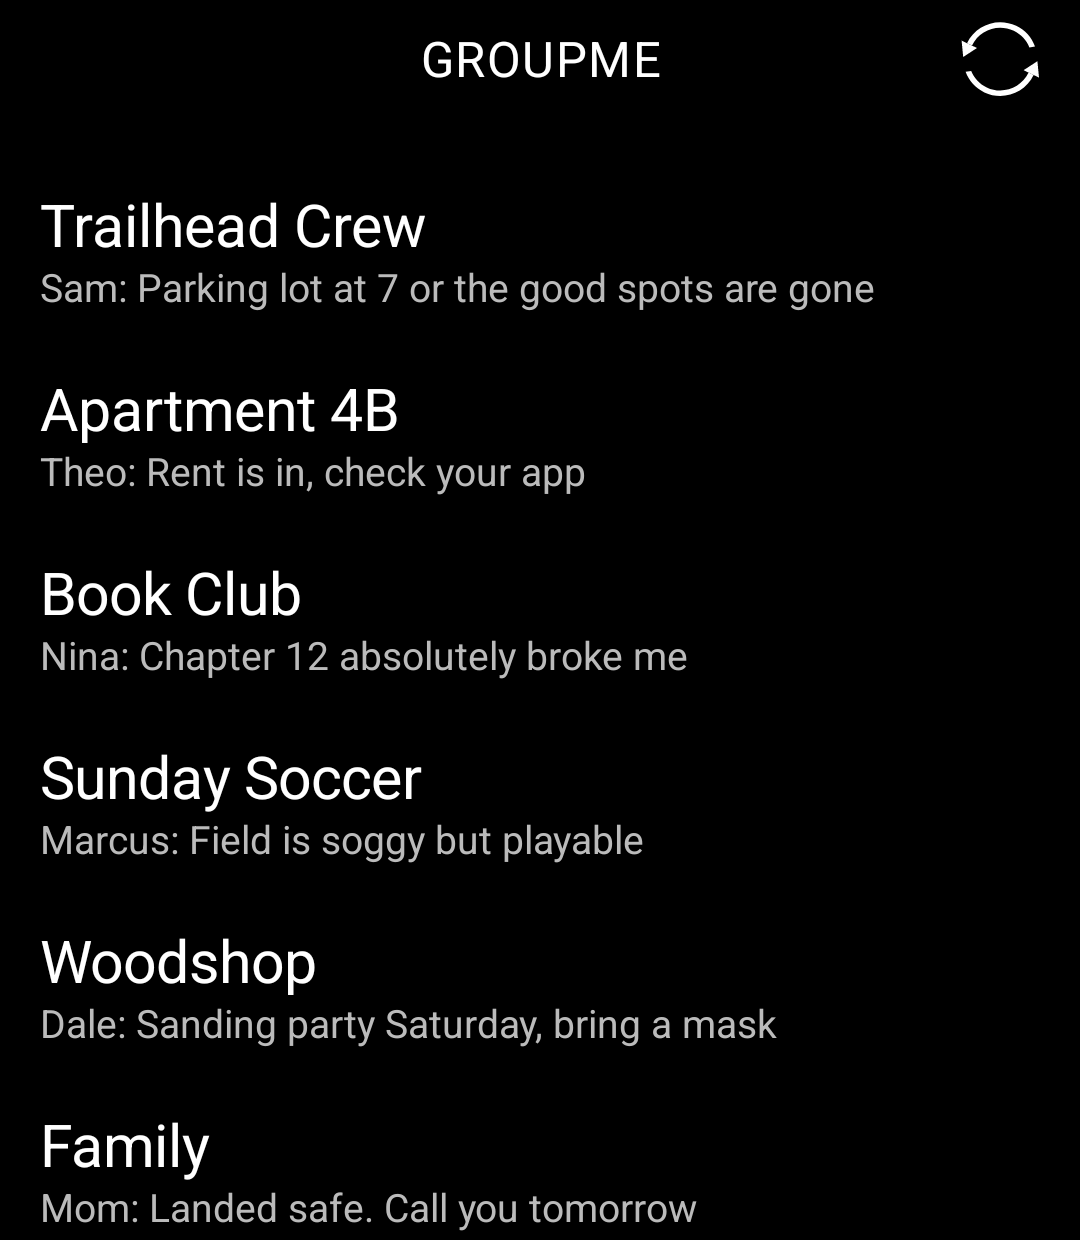
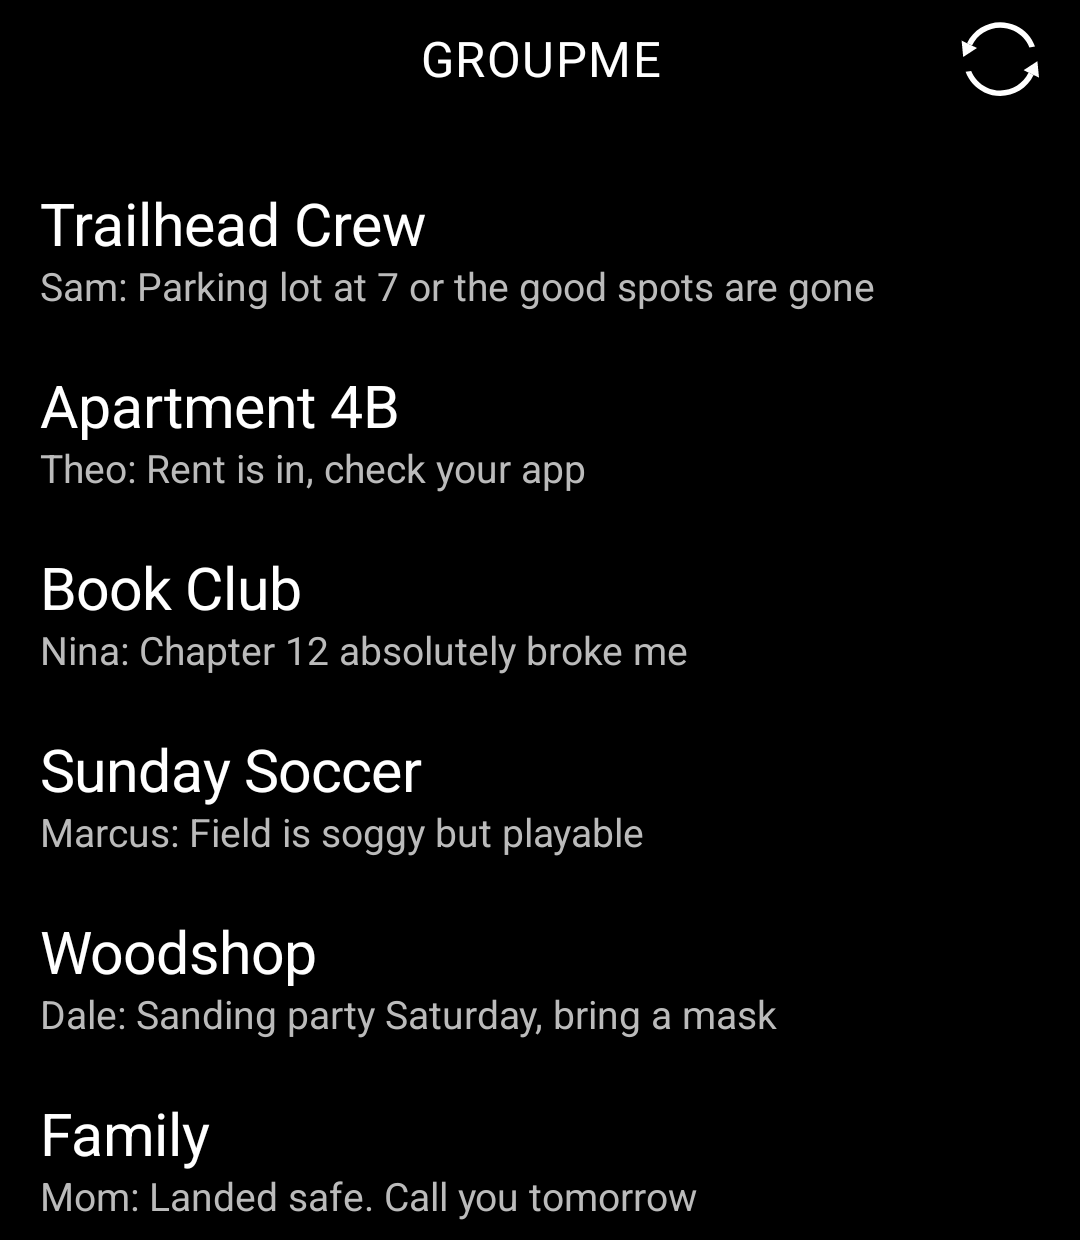
Match the LightOS messaging layout in the composer
The SDK generic text editor puts SUBMIT at the bottom and the draft at the
top, which does not match how the Light Phone messaging screen looks. This
adds a composer owned by the tool instead:

- Send moved to a paper-plane button in the top bar
- Draft text now rests just above the keys rather than at the top
- Close control sits beneath the keyboard
- Uses the SDK embedded Light Phone keyboard, so the keys stay native

Screenshots retaken at density 408 to match real LP3 hardware. Content in
them remains fabricated. README documents the two build targets and the
signing constraint that requires All Tools on real hardware.

Bumps to 1.1.0.

diff --git a/tool/src/main/kotlin/com/outofthewhale/groupme/ComposerScreen.kt b/tool/src/main/kotlin/com/outofthewhale/groupme/ComposerScreen.kt
@@ -1,0 +1,226 @@
+package com.outofthewhale.groupme
+
+import androidx.compose.foundation.background
+import androidx.compose.foundation.layout.Arrangement
+import androidx.compose.foundation.layout.Box
+import androidx.compose.foundation.layout.Column
+import androidx.compose.foundation.layout.Row
+import androidx.compose.foundation.layout.fillMaxSize
+import androidx.compose.foundation.layout.fillMaxWidth
+import androidx.compose.foundation.layout.padding
+import androidx.compose.foundation.text.input.TextFieldState
+import androidx.compose.foundation.text.input.delete
+import androidx.compose.foundation.text.input.rememberTextFieldState
+import androidx.compose.runtime.Composable
+import androidx.compose.runtime.collectAsState
+import androidx.compose.runtime.getValue
+import androidx.compose.runtime.remember
+import androidx.compose.ui.Alignment
+import androidx.compose.ui.Modifier
+import androidx.compose.ui.text.TextRange
+import androidx.lifecycle.ViewModel
+import androidx.lifecycle.ViewModelProvider
+import androidx.lifecycle.viewmodel.compose.viewModel
+import com.thelightphone.lp3Keyboard.ui.KeyboardOptions
+import com.thelightphone.lp3Keyboard.ui.LayoutOptions
+import com.thelightphone.lp3Keyboard.ui.SpecialKey
+import com.thelightphone.lp3Keyboard.ui.viewmodel.EnQwertyLp3KeyboardViewModel
+import com.thelightphone.lp3Keyboard.ui.viewmodel.Lp3KeyboardViewModel
+import com.thelightphone.lp3Keyboard.ui.viewmodel.Lp3RepeatableKeyboardCallback
+import com.thelightphone.sdk.SealedLightActivity
+import com.thelightphone.sdk.SimpleLightScreen
+import com.thelightphone.sdk.rememberKeyboardOptions
+import com.thelightphone.sdk.ui.LightBarButton
+import com.thelightphone.sdk.ui.LightIcon
+import com.thelightphone.sdk.ui.LightIcons
+import com.thelightphone.sdk.ui.LightText
+import com.thelightphone.sdk.ui.LightTextVariant
+import com.thelightphone.sdk.ui.LightTheme
+import com.thelightphone.sdk.ui.LightThemeController
+import com.thelightphone.sdk.ui.LightThemeTokens
+import com.thelightphone.sdk.ui.LightTopBar
+import com.thelightphone.sdk.ui.LightTopBarCenter
+import com.thelightphone.sdk.ui.gridUnitsAsDp
+import com.thelightphone.sdk.ui.keyboard.LightEmbeddedLp3Keyboard
+import com.thelightphone.sdk.ui.lightClickable
+import kotlinx.coroutines.flow.StateFlow
+
+/**
+ * Message composer laid out to match the LightOS messaging screen: send lives in the
+ * top bar, the draft sits directly above the keys, and a close control sits beneath
+ * the keyboard. Returns the composed text, or null if the screen was dismissed.
+ */
+internal class ComposerScreen(
+    sealedActivity: SealedLightActivity,
+    private val title: String,
+    private val initialValue: String = "",
+) : SimpleLightScreen<String>(sealedActivity) {
+
+    @Composable
+    override fun Content() {
+        val themeColors by LightThemeController.colors.collectAsState()
+        val textState = rememberTextFieldState(initialValue)
+        val keyboardOptionsFlow = rememberKeyboardOptions()
+        val callback = remember(textState) { ComposerKeyboardCallback(textState) }
+        val keyboardViewModel: Lp3KeyboardViewModel<*> =
+            viewModel<EnQwertyLp3KeyboardViewModel<Unit>>(
+                key = "ComposerScreen-$title",
+                factory = composerKeyboardFactory(callback, keyboardOptionsFlow),
+            )
+
+        val draft = textState.text.toString()
+
+        LightTheme(colors = themeColors) {
+            Column(
+                modifier = Modifier
+                    .fillMaxSize()
+                    .background(LightThemeTokens.colors.background)
+            ) {
+                LightTopBar(
+                    leftButton = LightBarButton.LightIcon(
+                        icon = LightIcons.BACK,
+                        onClick = { goBack(null) },
+                    ),
+                    center = LightTopBarCenter.Text(title),
+                    rightButton = LightBarButton.LightIcon(
+                        icon = LightIcons.SEND,
+                        onClick = { goBack(draft.takeIf { it.isNotBlank() }) },
+                    ),
+                )
+
+                // The draft grows upward from just above the keys, as it does in LightOS.
+                Box(
+                    modifier = Modifier
+                        .weight(1f)
+                        .fillMaxWidth()
+                        .padding(horizontal = 1f.gridUnitsAsDp()),
+                    contentAlignment = Alignment.BottomStart,
+                ) {
+                    LightText(
+                        text = draft + CURSOR,
+                        variant = LightTextVariant.Heading,
+                        modifier = Modifier
+                            .fillMaxWidth()
+                            .padding(bottom = 1f.gridUnitsAsDp()),
+                    )
+                }
+
+                LightEmbeddedLp3Keyboard(
+                    viewModel = keyboardViewModel,
+                    bottomBar = {
+                        Row(
+                            modifier = Modifier
+                                .fillMaxWidth()
+                                .padding(
+                                    horizontal = 1f.gridUnitsAsDp(),
+                                    vertical = 0.5f.gridUnitsAsDp(),
+                                ),
+                            horizontalArrangement = Arrangement.End,
+                        ) {
+                            LightIcon(
+                                icon = LightIcons.CLOSE,
+                                modifier = Modifier.lightClickable { goBack(null) },
+                            )
+                        }
+                    },
+                )
+            }
+        }
+    }
+}
+
+private const val CURSOR = "|"
+
+private fun composerKeyboardFactory(
+    callback: Lp3RepeatableKeyboardCallback,
+    keyboardOptionsFlow: StateFlow<KeyboardOptions>,
+): ViewModelProvider.Factory = object : ViewModelProvider.Factory {
+    @Suppress("UNCHECKED_CAST")
+    override fun <T : ViewModel> create(modelClass: Class<T>): T {
+        return EnQwertyLp3KeyboardViewModel<Unit>(
+            callback,
+            keyboardOptionsFlow = keyboardOptionsFlow,
+            optionsForLayout = { LayoutOptions(!it.isRootLayout) },
+        ) as T
+    }
+}
+
+/**
+ * Applies Light Phone keyboard events to a [TextFieldState]. Mirrors the SDK's own
+ * internal callback, which tools cannot reach.
+ */
+private class ComposerKeyboardCallback(
+    private val state: TextFieldState,
+) : Lp3RepeatableKeyboardCallback {
+
+    override fun onKeyPressed(code: Int) = Unit
+
+    override fun onSpecialKeyPressed(key: SpecialKey) {
+        if (key == SpecialKey.Space) insertAtCursor(" ")
+    }
+
+    override fun onKeyReleased(code: Int) = insertCodePoint(code)
+
+    override fun onSpecialKeyReleased(key: SpecialKey) {
+        when (key) {
+            SpecialKey.Backspace -> {
+                val before = state.text.subSequence(0, state.selection.min)
+                deleteBeforeCursor(surrogateAwareDeleteCount(before))
+            }
+            SpecialKey.Return -> insertAtCursor("\n")
+            else -> Unit
+        }
+    }
+
+    override fun onKeyLongPressed(code: Int) = Unit
+
+    override fun onSpecialKeyLongPressed(key: SpecialKey) {
+        if (key == SpecialKey.Backspace) {
+            val before = state.text.subSequence(0, state.selection.min)
+            deleteBeforeCursor(deleteWordCount(before))
+        }
+    }
+
+    override fun onKeyRepeated(code: Int) = insertCodePoint(code)
+
+    override fun onSpecialKeyRepeated(specialKey: SpecialKey) {
+        if (specialKey == SpecialKey.Space) insertAtCursor(" ")
+    }
+
+    override fun onSubmitWord(word: CharSequence) = insertAtCursor(word.toString())
+
+    private fun insertCodePoint(code: Int) {
+        insertAtCursor(buildString { appendCodePoint(code) })
+    }
+
+    private fun insertAtCursor(text: String) {
+        state.edit {
+            val start = selection.min
+            val end = selection.max
+            replace(start, end, text)
+            selection = TextRange(start + text.length)
+        }
+    }
+
+    private fun deleteBeforeCursor(count: Int) {
+        if (count <= 0) return
+        state.edit {
+            val end = selection.min
+            if (end == 0) return@edit
+            val start = (end - count).coerceAtLeast(0)
+            delete(start, end)
+            selection = TextRange(start)
+        }
+    }
+}
+
+private fun surrogateAwareDeleteCount(value: CharSequence): Int {
+    if (value.isEmpty()) return 0
+    return if (Character.isLowSurrogate(value[value.length - 1])) 2 else 1
+}
+
+private fun deleteWordCount(value: CharSequence): Int {
+    val trimmed = value.trimEnd()
+    val lastSpace = trimmed.indexOfLast { it.isWhitespace() }
+    return value.length - if (lastSpace >= 0) lastSpace + 1 else 0
+}

diff --git a/tool/src/main/kotlin/com/outofthewhale/groupme/ChatScreen.kt b/tool/src/main/kotlin/com/outofthewhale/groupme/ChatScreen.kt
@@ -216,7 +216,7 @@ class ChatScreen(
                 .lightClickable {
                     navigateTo(
                         screenFactory = {
-                            TextEntryScreen(it, title = groupName, submitLabel = "SEND")
+                            ComposerScreen(it, title = groupName)
                         },
                         resultCallback = { viewModel.send(it) },
                     )

diff --git a/README.md b/README.md
@@ -26,7 +26,8 @@ conversations here.*
 
 - **Your groups**, sorted by most recent activity, each with a one-line preview
 - **Read conversations** with sender names and timestamps, paging back through history
-- **Send messages** using the native Light Phone keyboard
+- **Send messages** on a composer laid out to match the LightOS messaging screen: send in
+  the top bar, the draft resting just above the native Light Phone keys
 - **Live updates** — new messages arrive over a WebSocket connection while the tool is open,
   no manual refresh required
 - **Photo attachments** render inline; tap one for a full-screen view
@@ -104,10 +105,32 @@ allows on a tool's classpath.
 
 ## Status
 
-Working: signing in, the group list, reading conversations, and paging back through history.
+Working: signing in, the group list, reading conversations, paging back through history, and
+the composer.
 
-Built but not yet fully exercised: sending messages, realtime delivery, and image attachments.
-Sending a photo needs a media picker primitive that the SDK has not exposed yet.
+The realtime connection is confirmed established — the tool holds an open socket to
+`push.groupme.com` and GroupMe accepts the subscription — but an incoming message has not yet
+been observed arriving live. Sending and image attachments are written but not yet exercised.
+Sending a photo additionally needs a media picker primitive the SDK has not exposed.
+
+## Installing on real hardware
+
+Two builds are published, and they are not interchangeable:
+
+| Build | For |
+|---|---|
+| `LightMe-x.y.z.apk` | The LightOS emulator |
+| `LightMe-x.y.z-lp3.apk` | A real Light Phone III |
+
+They differ only in `serverPackage` in `lighttool.toml`, which tells the tool whether to talk to
+the emulator or to LightOS itself. Point the wrong one at the wrong target and the tool installs
+but cannot reach system services.
+
+**Note on visibility:** a self-built tool is signed with the development key bundled in the SDK,
+which is *not* Light's signing key. On a real phone, the tool therefore only appears with
+**Allowed Tools** set to **All Tools** — the stricter "Light signed tools" setting correctly
+hides it, and also blocks the tool from reaching LightOS services such as permission requests.
+Tools built and signed by Light through their submission process will not have this limitation.
 
 ## Credits and licensing
 
